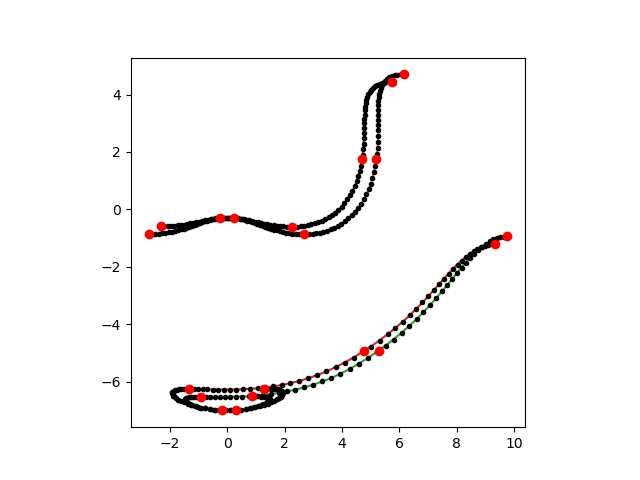
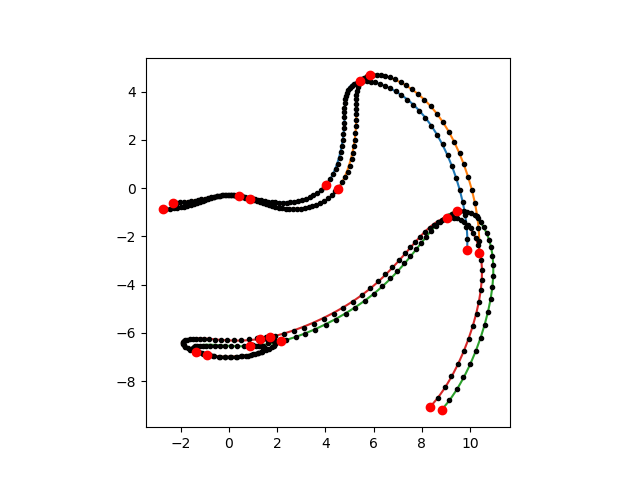
v1.1.1 minor bug fixes
Important fix: vehicle_basis: 'final_param' and 'initial_param' was wrong.

diff --git a/src/vehicle.py b/src/vehicle.py
@@ -329,8 +329,8 @@ class Vehicle(VehicleBasis):
             self.J += self.rho_final_value * ((p.coeffs[i] -      (lambda_[i] * x0[0] + (1 - lambda_[i]) * xf[0])     )**2)
             self.J += self.rho_final_value * ((q.coeffs[i] -      (lambda_[i] * x0[1] + (1 - lambda_[i]) * xf[1])     )**2)
             
-        # self.J += self.rho_final_value * ((p.coeffs[-1] - xf[0])**2)
-        # self.J += self.rho_final_value * ((q.coeffs[-1] - xf[1])**2)
+        # self.J += self.rho_final_value * ((p.coeffs[-1] - xf[0])**2) * 10
+        # self.J += self.rho_final_value * ((q.coeffs[-1] - xf[1])**2) * 10
         
         # self.J += self.rho_final_value * ((phi.coeffs[-1] - self.xf[2])**2)
         
@@ -342,13 +342,20 @@ class Vehicle(VehicleBasis):
                                 xf[self.n_dimensions],
                                 xf[self.n_dimensions],
                                 constraint_type='final_param',
-                                name=["yf"] * self.n_dimensions)
+                                name=["phif"] * self.n_dimensions)
                                         
-        # # Version 1
-        # # Final position constraint on y
+        # Version 1
+        # Final position constraint on y
+        self.define_constraint([p, q],
+                                xf[:self.n_dimensions_old] - [self.radious*2, self.radious*2],
+                                xf[:self.n_dimensions_old] + [self.radious*2, self.radious*2],
+                                constraint_type='final_param',
+                                name=["yf"] * self.n_dimensions)
+        
+        
         # self.define_constraint([p, q],
-        #                         xf[:self.n_dimensions_old],
-        #                         xf[:self.n_dimensions_old],
+        #                         vertcat(xf[0] - self.radious*1, xf[1] - self.radious*1),
+        #                         vertcat(xf[0] + self.radious*1, xf[1] + self.radious*1),
         #                         constraint_type='final_param',
         #                         name=["yf"] * self.n_dimensions)
 
@@ -739,11 +746,25 @@ class Vehicle(VehicleBasis):
             x_t += [x_]
             y_t += [y_]
             
+            
         assert not((self.t_step * 100) % 1)
-        idx = int(100 * self.t_step * 1 / self.t_window_size + 1) # int(1 / self.t_step - 1)
+        # idx = int(100 * self.t_step * 1 / self.t_window_size + 1) # int(1 / self.t_step - 1)
+        # print("idx_old:" + str(idx))
+        # idx = int(100 - abs(self.t_step - t_start) / (t_end - t_start))
+        # print("idx_new:" + str(idx))
+        # idx = int((self.t_step + t_start) * (100))
+        # print("idx_new:" + str(idx))
+        
+        if t_end > t_start:
+            a = t_end - t_start
+            virtual_idx = self.t_window_size * 100 / a
+            idx = math.ceil(virtual_idx * self.t_step * 1 / self.t_window_size)
+        else:
+            idx = 100
         
         ax.plot(x_t[0:idx], y_t[0:idx], c = 'k',lw=0.8,alpha = 1, zorder = 5)
         ax.plot(x_t[idx:], y_t[idx:], c = 'cornflowerblue',lw=0.8,alpha = 0.5, zorder = 3)
+        
         
         
         x0, y0 = self.fp.frenet_to_inertial(p_solution(0)[0], q_solution(0)[0], t_start)

diff --git a/src/vehicle_basis.py b/src/vehicle_basis.py
@@ -345,6 +345,13 @@ class VehicleBasis(Environment):
         self.t_start = self.t_start + self.t_step
         self.t_end = self.t_start + self.t_window_size
         
+        if self.t_end > 1:
+            self.t_end = 1
+            
+        if self.t_start > 1:
+            self.t_start = 1
+            
+        
         self.shift_enabled = True
         
         return self
@@ -654,14 +661,29 @@ class VehicleBasis(Environment):
                 self.g += [constraint[i].coeffs[0] - lower_bound[i]] # we restrict the first coefficient
                 self.g_list += [name[i]]
                 self.lbg += [0]
+                self.ubg += [math.inf]
+            for i in range(upper_bound.shape[0]):
+                self.g += [constraint[i].coeffs[0] - upper_bound[i]] # we restrict the first coefficient
+                self.g_list += [name[i]]
+                self.lbg += [-math.inf]
                 self.ubg += [0]
             return self
 
         elif constraint_type == 'final_param':
+            # for i in range(lower_bound.shape[0]):
+            #     self.g += [constraint[i].coeffs[-1] - lower_bound[i]] # we restrict the last coefficient
+            #     self.g_list += [name[i]]
+            #     self.lbg += [0]
+            #     self.ubg += [0]
             for i in range(lower_bound.shape[0]):
                 self.g += [constraint[i].coeffs[-1] - lower_bound[i]] # we restrict the last coefficient
                 self.g_list += [name[i]]
                 self.lbg += [0]
+                self.ubg += [math.inf]
+            for i in range(upper_bound.shape[0]):
+                self.g += [constraint[i].coeffs[-1] - upper_bound[i]] # we restrict the first coefficient
+                self.g_list += [name[i]]
+                self.lbg += [-math.inf]
                 self.ubg += [0]
             return self
 

diff --git a/src/group.py b/src/group.py
@@ -231,7 +231,7 @@ class Group(Environment):
         # yaml.add_representer(float, float_representer)
         if position_type == 'initial':
             position = self.start_position
-            positions = self.position_generator(centerpoint = position, n_positions = len(self.vehicles), r = self.vehicles[0].radious * 10)
+            positions = self.position_generator(centerpoint = position, n_positions = len(self.vehicles), r = self.vehicles[0].radious * 6)
 
             if self.stage == 0:
                 yaml_dict = {'crazyflies' : []}
@@ -258,7 +258,7 @@ class Group(Environment):
             #     positions += [initialPosition['crazyflies'][i]['initialPosition'][:2]]
         elif position_type == 'final':
             position = self.goal_position
-            positions = self.position_generator(centerpoint = position, n_positions = len(self.vehicles), r = self.vehicles[0].radious * 3)
+            positions = self.position_generator(centerpoint = position, n_positions = len(self.vehicles), r = self.vehicles[0].radious * 6)
 
             if self.stage == 0:
                 yaml_dict = {'crazyflies' : []}

diff --git a/frenet_optimization.py b/frenet_optimization.py
@@ -130,7 +130,7 @@ def run_optimizaiton(corners_list, start_position, goal_position, min_iterations
     group.set_simulation(simulation=True)
     n_intermediate_ADMM = 1
     group.set_var({'n_intermediate_ADMM': n_intermediate_ADMM})
-    for i in range(0, 20):
+    for i in range(0, 26):
         for j in range(n_intermediate_ADMM):
             group.solve()
             group.set_simulation(False)

diff --git a/src/frenet_path.py b/src/frenet_path.py
@@ -17,7 +17,7 @@ from .spline_extra import definite_integral, shift_spline, shift_knot1_fwd, shif
 
 
 class FrenetPath(object):
-    def __init__(self, tau_0 : float = float(-5), tau_f : float = float(5), N : int = 100):
+    def __init__(self, tau_0 : float = float(-8), tau_f : float = float(5), N : int = 100):
 
         self.tau_0 = tau_0
         self.tau_f = tau_f

diff --git a/src/environment.py b/src/environment.py
@@ -12,7 +12,7 @@ class Environment():
     def __init__(self):
         
         self.border_x = [-6, 6]
-        self.border_y = [-2, 2]
+        self.border_y = [-5, 2]
         self.cwd = os.getcwd()
         
         # self.start_position = [-0.8, 0]
